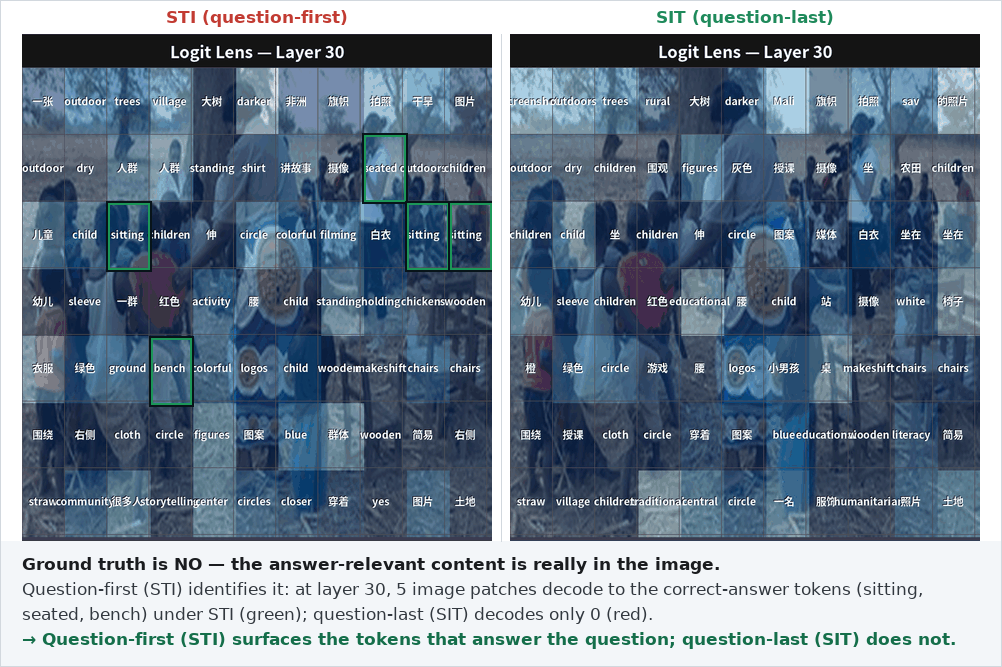
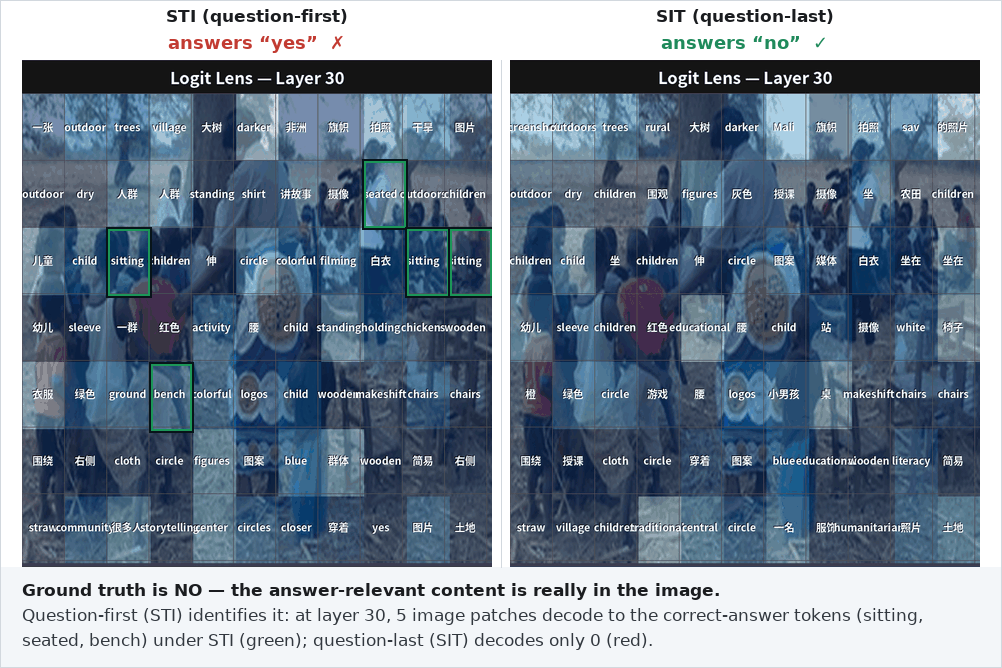
Site: show STI/SIT answer verdict above the still; drop generic footer line
- build_cmp_still.py: under each column label print the ordering's answer verdict
  ("answers 'yes' ✓" / "answers 'no' ✗", green if correct else red), so the
  right/wrong result is visible above the still image without playing the GIFs.
- Remove the generic "-> Question-first surfaces the tokens ... does not" line from
  the still footer (not needed on every image).

diff --git a/website/build_cmp_still.py b/website/build_cmp_still.py
@@ -108,6 +108,7 @@ F_EYE = font("DejaVuSans-Bold.ttf", 14)
 F_Q = font("DejaVuSans-Bold.ttf", 25)
 F_BADGE = font("DejaVuSans-Bold.ttf", 16)
 F_COL = font("DejaVuSans-Bold.ttf", 17)
+F_VERD = font("DejaVuSans-Bold.ttf", 18)
 F_BODY = font("DejaVuSans.ttf", 17)
 F_BODYB = font("DejaVuSans-Bold.ttf", 17)
 F_TAG = font("DejaVuSans-Bold.ttf", 14)
@@ -316,6 +317,7 @@ def panel(e):
 
     question, gt = e["question"], e["gt"]
     sti_pred, sit_pred = e["STI"]["pred"], e["SIT"]["pred"]
+    sti_ok, sit_ok = e["STI"]["correct"], e["SIT"]["correct"]
     yes = gt.lower().startswith("y")
     gtcol = GOOD if yes else BAD
 
@@ -323,22 +325,23 @@ def panel(e):
     # raw image in the page, so no eyebrow / ground-truth band on the still.
     hh = 0
 
-    # ---- column captions ----
-    ch = 34
+    # ---- column captions ----  (label + the ordering's answer verdict, above the grid)
+    ch = 60
     caps = Image.new("RGB", (W, ch), (255, 255, 255))
     cd = ImageDraw.Draw(caps)
     lx = PAD + cw / 2
     rx = PAD + cw + COLGAP + cw / 2
-    cd.text((lx, ch / 2), "STI (question-first)", font=F_COL, fill=BAD, anchor="mm")
-    cd.text((rx, ch / 2), "SIT (question-last)", font=F_COL, fill=GOOD, anchor="mm")
+    cd.text((lx, 16), "STI (question-first)", font=F_COL, fill=INK, anchor="mm")
+    cd.text((rx, 16), "SIT (question-last)", font=F_COL, fill=INK, anchor="mm")
+    sti_v = "answers “%s”  %s" % (sti_pred, "✓" if sti_ok else "✗")
+    sit_v = "answers “%s”  %s" % (sit_pred, "✓" if sit_ok else "✗")
+    cd.text((lx, 43), sti_v, font=F_VERD, fill=(GOOD if sti_ok else BAD), anchor="mm")
+    cd.text((rx, 43), sit_v, font=F_VERD, fill=(GOOD if sit_ok else BAD), anchor="mm")
 
     # ---- footer ----
     maxw = W - 2 * PAD
     if steering:
         toks = ", ".join(sorted(found_sti, key=lambda t: -found_sti[t])[:5])
-        sti_ok = e["STI"]["correct"]
-        sit_ok = e["SIT"]["correct"]
-        mk = lambda ok: "✓" if ok else "✗"
         yesno = "YES" if gt.lower().startswith("y") else "NO"
         lines = [("b", "Ground truth is %s — the answer-relevant content is really "
                   "in the image." % yesno)]
@@ -347,9 +350,6 @@ def panel(e):
                        "(green); question-last (SIT) decodes only %d (red)."
                        % (layer, n_sti, toks, n_sit), F_BODY, maxw):
             lines.append(("n", ln))
-        for ln in wrap("→ Question-first (STI) surfaces the tokens that answer the "
-                       "question; question-last (SIT) does not.", F_BODYB, maxw):
-            lines.append(("e", ln))
     else:
         boxlab = BOXES.get(idx, (0, 0, 0, 0, "key region"))[4]
         lines = [("b", "The cyan box marks the object you must read to answer (%s)."
